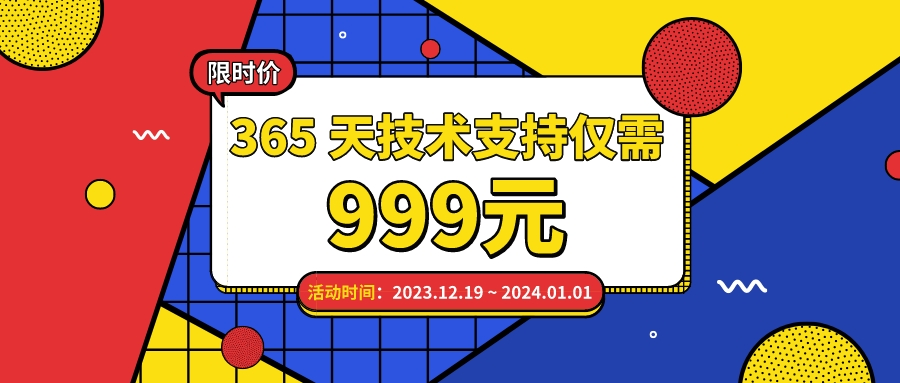
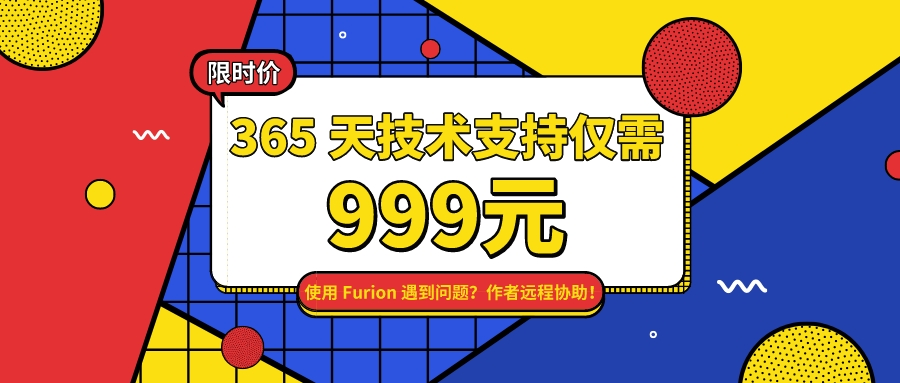
😊 更新 `README.md` 海报信息

Changed region(s): [[0.3422, 0.718, 0.6844, 0.8042]]

diff --git a/README.md b/README.md
@@ -1,3 +1,5 @@
+[![](./assets/999.jpeg)](https://furion.net/docs/subscribe)
+
 [中](https://gitee.com/dotnetchina/Furion) | **En**
 
 # Furion

diff --git a/README.zh.md b/README.zh.md
@@ -1,3 +1,5 @@
+[![](./assets/999.jpeg)](https://furion.net/docs/subscribe)
+
 **中** | [En](https://github.com/MonkSoul/Furion)
 
 # 先知
